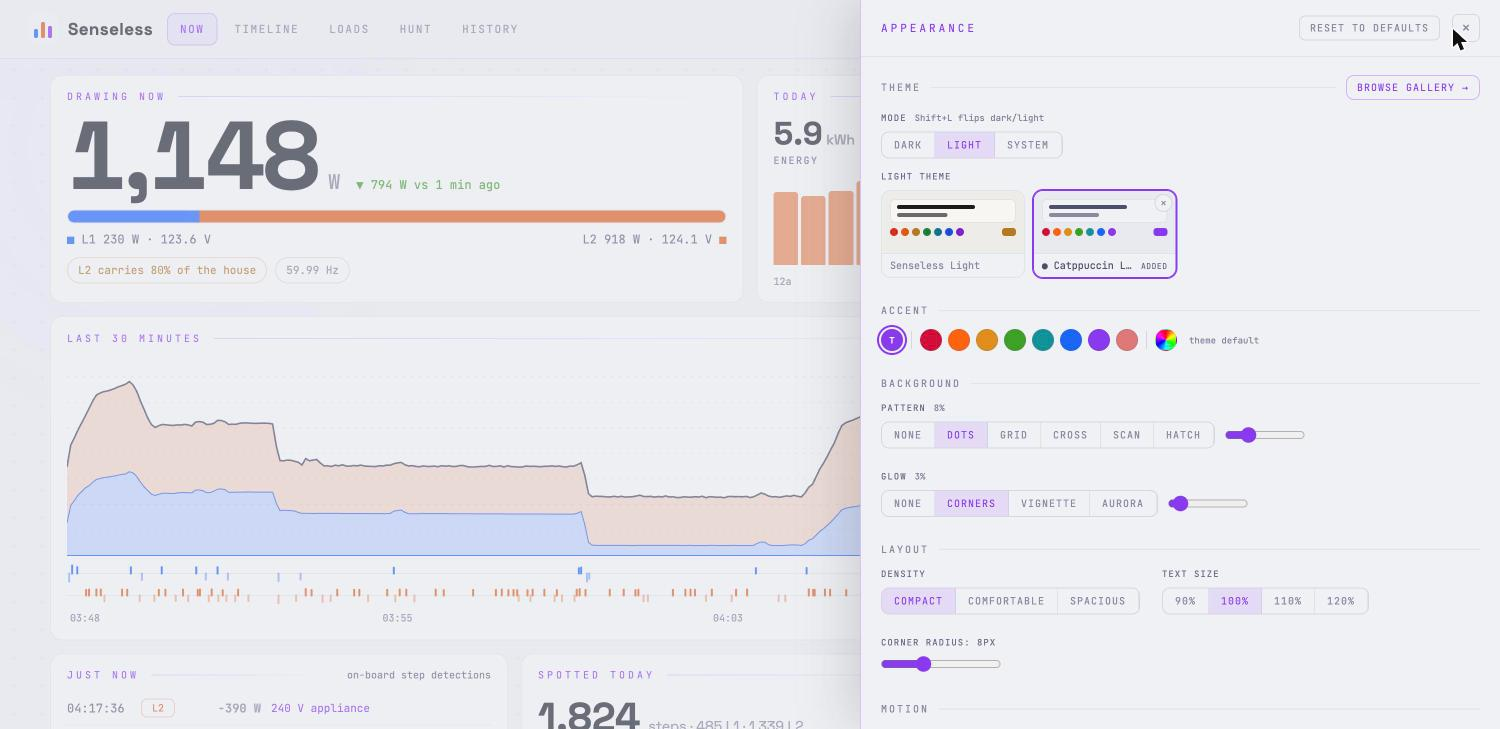
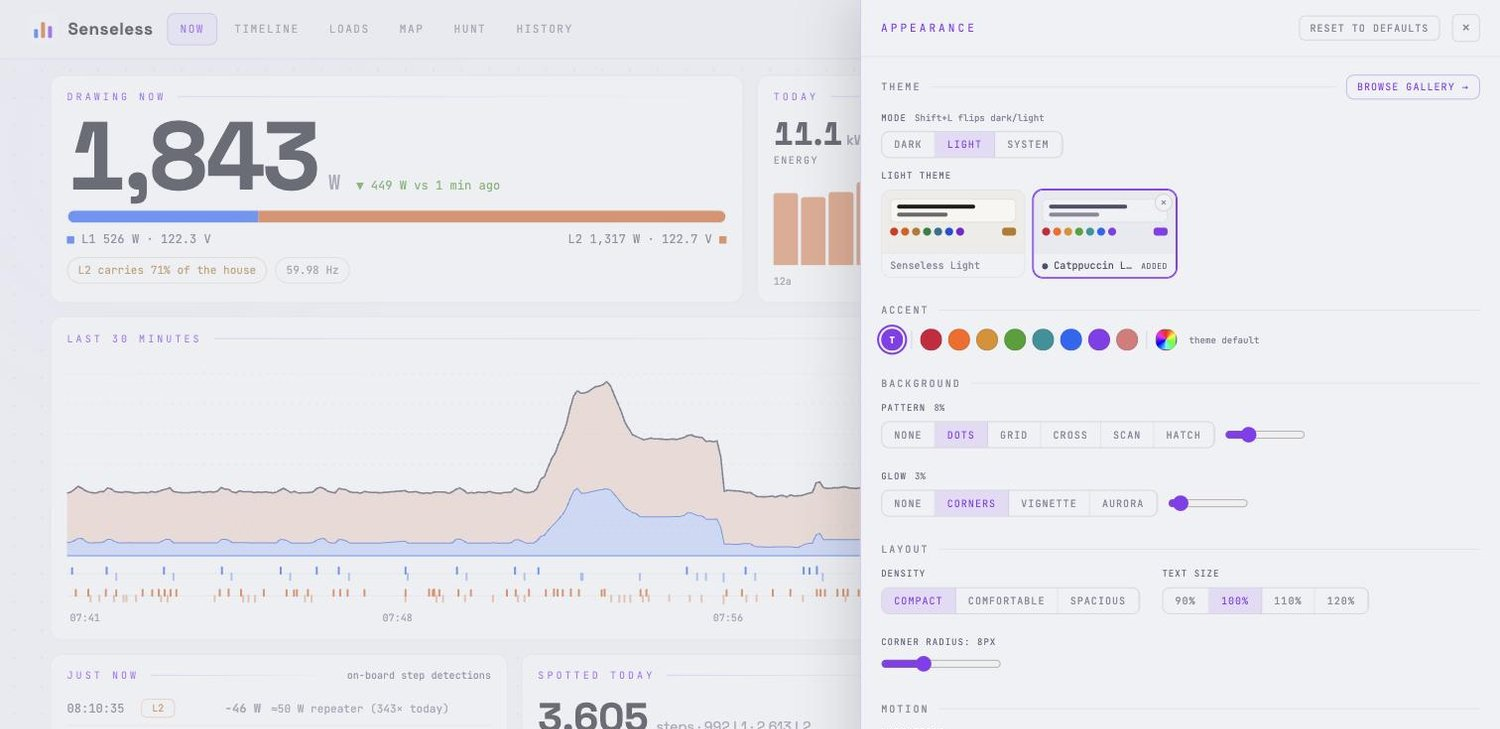
Keep phone nav on one row; refresh README screenshots (0.6.1)
Adding the Map tab pushed History onto a second nav row at phone widths.
Tabs now use tighter spacing on mobile and scroll sideways when even that
doesn't fit, with padding so focus rings aren't clipped (Codex review).

Screenshots recaptured from production (theming-light from a local
instance so the prod appearance stays untouched): Map tab in the nav,
stray `">` gone.

Claude-Session: https://claude.ai/code/session_01EKF1WgjTu2rvhk3v7fLiJ8

diff --git a/web/src/components/TopBar.jsx b/web/src/components/TopBar.jsx
@@ -60,14 +60,20 @@ export function TopBar({ status, frame, isMobile, onOpenAppearance, onToggleMode
         <Mark />
         <span style={{ fontWeight: 700, fontSize: 17, letterSpacing: 0.4, color: C.bright }}>Senseless</span>
       </a>
-      <nav aria-label="Primary" style={{ display: 'flex', gap: 4, flexWrap: 'wrap', order: isMobile ? 3 : 0, width: isMobile ? '100%' : 'auto' }}>
+      {/* One row on phones: tighter tabs, and a sideways scroll on screens too narrow even for that. */}
+      <nav aria-label="Primary" style={{
+        display: 'flex', gap: isMobile ? 2 : 4, flexWrap: isMobile ? 'nowrap' : 'wrap', order: isMobile ? 3 : 0, width: isMobile ? '100%' : 'auto',
+        overflowX: isMobile ? 'auto' : 'visible', scrollbarWidth: 'none',
+        // A scroll container clips focus rings; this padding leaves room for them without moving the tabs.
+        ...(isMobile && { padding: '3px 0', margin: '-3px 0' }),
+      }}>
         {NAV.map(n => {
           const on = n.href === '/' ? path === '/' : path.startsWith(n.href)
           return (
             <a key={n.href} href={n.href} onClick={link(n.href)} aria-current={on ? 'page' : undefined}
               title={n.soon ? 'Coming soon' : undefined}
               style={{
-                fontFamily: MONO, fontSize: 11, letterSpacing: 1.5, textTransform: 'uppercase', padding: '8px 12px', borderRadius: 8,
+                fontFamily: MONO, fontSize: 11, letterSpacing: isMobile ? 1 : 1.5, textTransform: 'uppercase', padding: isMobile ? '8px 9px' : '8px 12px', borderRadius: 8, flexShrink: 0,
                 color: on ? C.accent : n.soon ? C.dim : C.muted, background: on ? alpha(C.accent, '14') : 'transparent',
                 border: `1px solid ${on ? alpha(C.accent, '45') : 'transparent'}`,
               }}>{n.label}</a>

diff --git a/CHANGELOG.md b/CHANGELOG.md
@@ -2,6 +2,15 @@
 
 All notable changes, newest first. Versions are git tags; images are `ghcr.io/mcglothi/senseless:<version>`.
 
+## 0.6.1 (2026-10-16)
+
+### Fixed
+- Phone nav: with the Map tab added, History wrapped onto a second row at phone widths. Tabs now sit on
+  one row (tighter spacing) and scroll sideways on screens too narrow for that.
+
+### Docs
+- README screenshots refreshed: the Map tab now appears in the nav, and the stray `">` is gone.
+
 ## 0.6.0 (2026-10-16)
 
 ### Added
